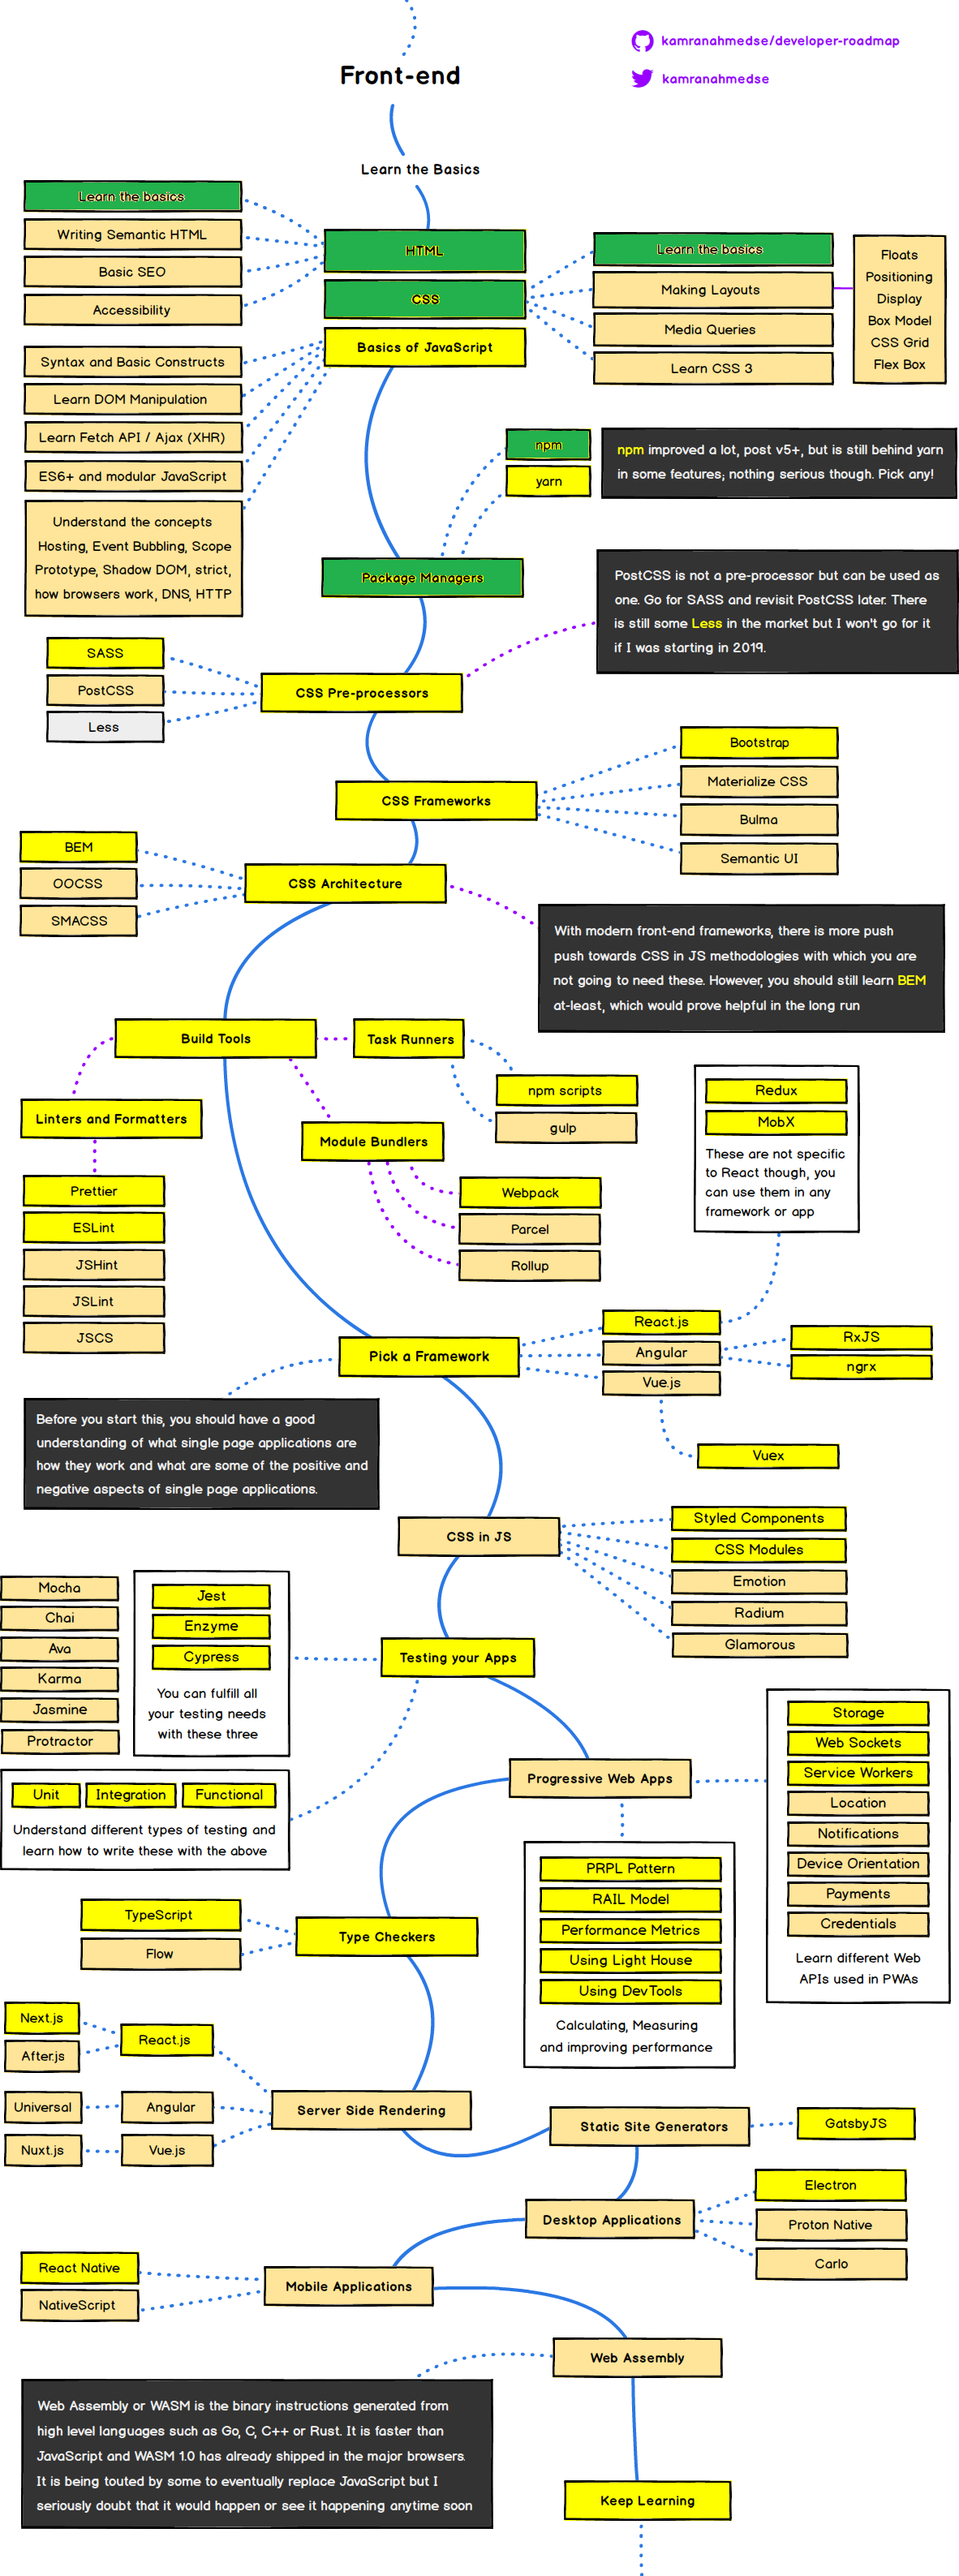
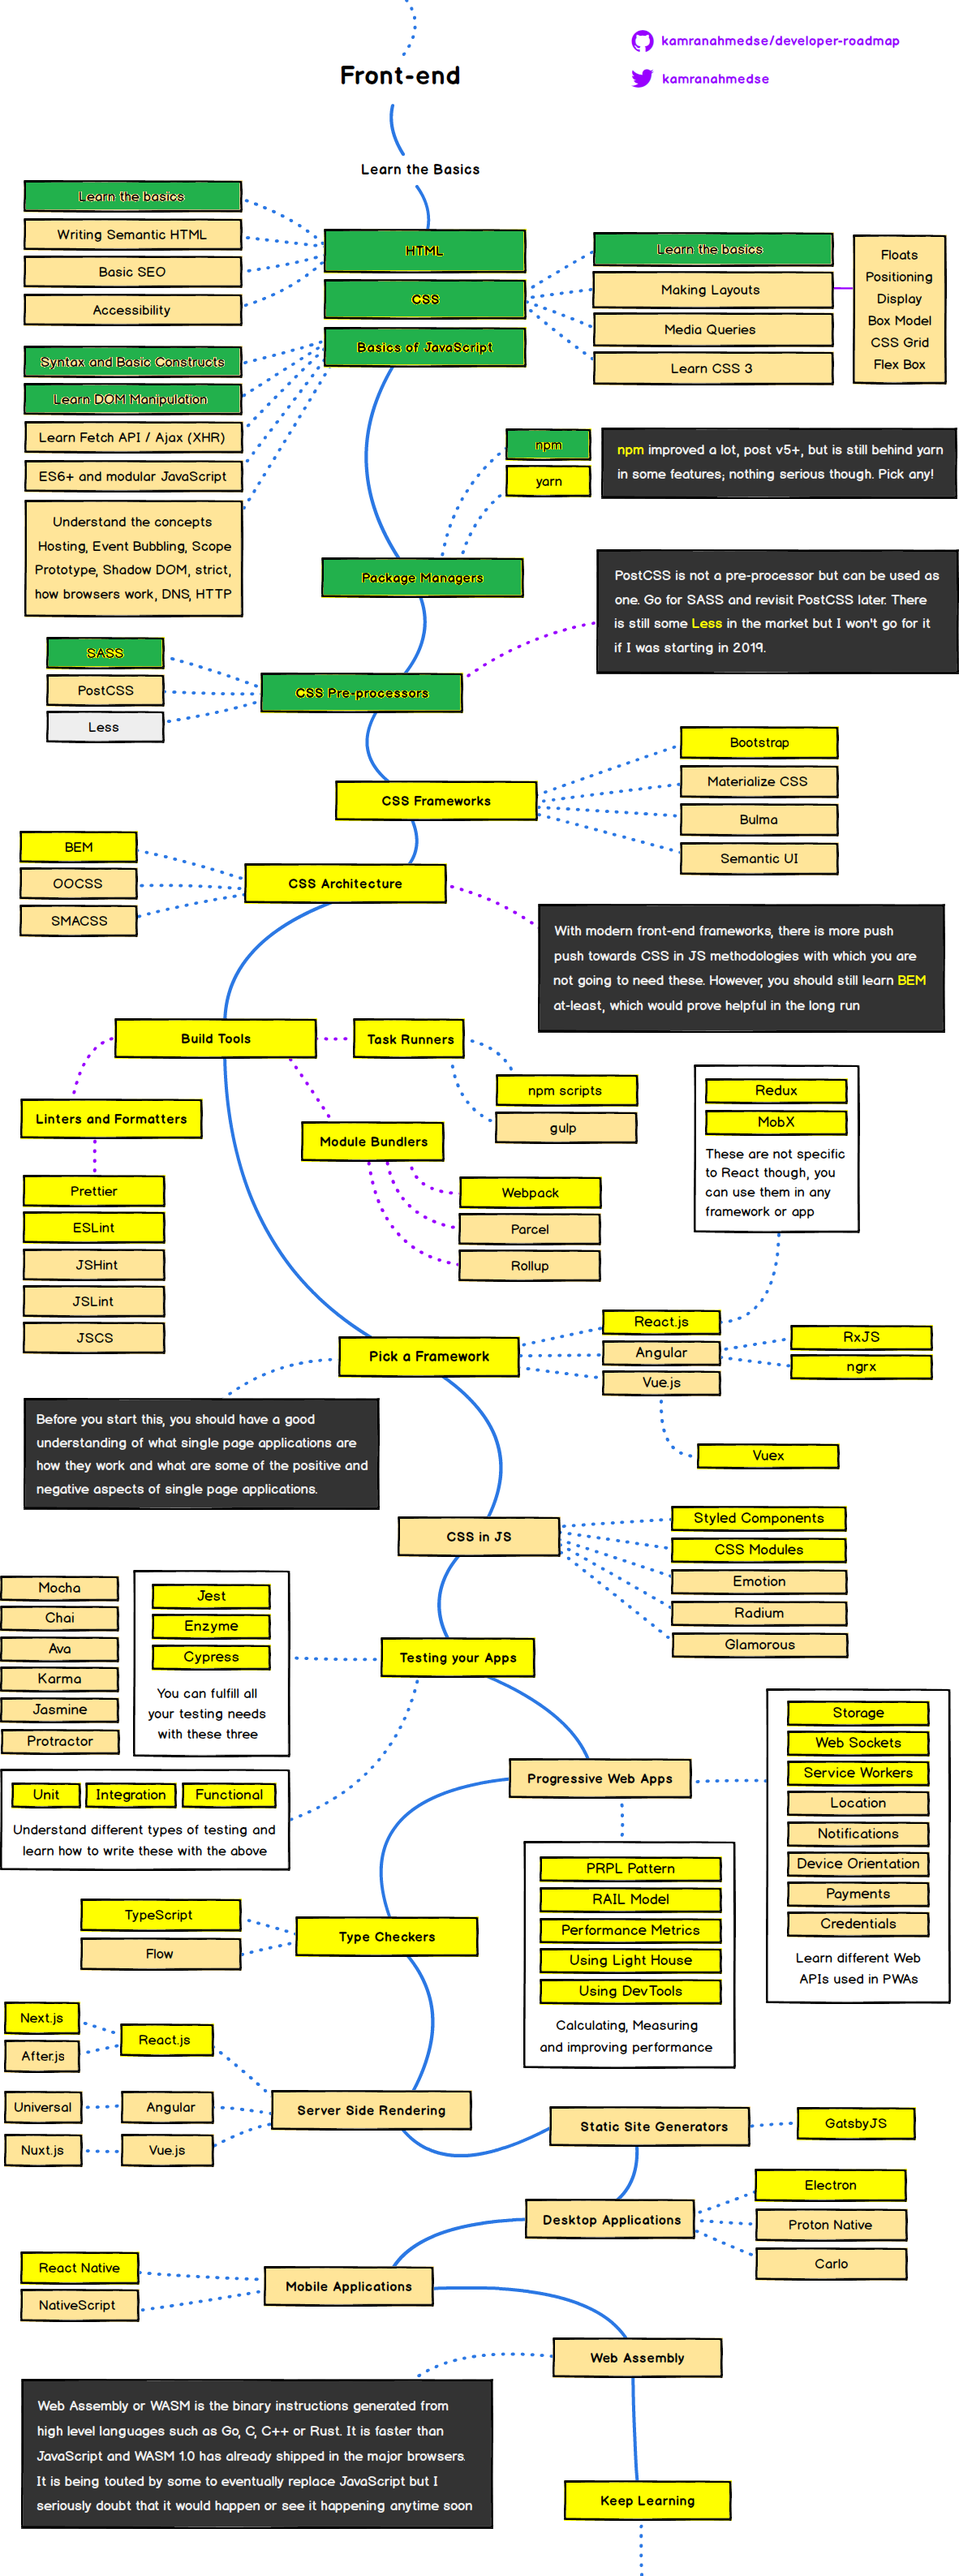
saas tutorial

diff --git a/front-end/css-preprocessor/sass/css/main.scss b/front-end/css-preprocessor/sass/css/main.scss
@@ -1,0 +1,149 @@
+$colors: (
+    primary: #005dff,
+    primary-light: lighten(#005dff, 40%),
+    primary-dark: darken(#005dff, 40%),
+    accent: #FFF6BB
+);
+// $mycolor: #005dff;
+$padding: 15px;
+$borders: 15px;
+
+@function color($color-name) {
+    @return map-get($colors, $color-name);
+}
+
+$desktop: 840px;
+
+@mixin  desktop {
+    @media(min-width: #{$desktop}){
+        @content;
+    }
+}
+
+body, html {
+    height: 100%;
+}
+
+body {
+    // background-color: map-get($map: $colors, $key: primary)
+    font-family: Cambria, Cochin, Georgia, Times, 'Times New Roman', serif;
+    margin: 0;
+    #bg {
+        clip-path: polygon(100% 0, 100% 79%, 28% 100%, 0 100%, 0 0);
+        background-color: color(primary);
+        width: 100%;
+        height: 100%;
+        position: absolute;
+        z-index: -1;
+
+        @include desktop {
+            clip-path: polygon(0 0, 75% 0, 55% 100%, 0% 100%);
+        }
+    }
+
+    header a {
+        color: #fff;
+        text-decoration: none;
+        padding: $padding;
+        display: block;
+        text-transform: uppercase;
+    }
+}
+
+main {
+
+    @include desktop {
+        display: grid;
+        grid-template-columns: 50% auto;
+        grid-template-areas: "primary card";
+    }
+
+    section#card {
+        background: #fff;
+        padding: 20px;
+        margin: 1em auto;
+        border-radius: $borders;
+        box-shadow: 0 10px 30px rgba(0,0,0,.2);
+        width: 80%;
+
+        @include desktop {
+            grid-area: card;
+            height: fit-content;
+            align-self: center;
+            margin: 1em;
+        }
+
+        ul {
+            list-style-type:  none;
+            margin:0;
+            padding:0;
+
+            li {
+                margin-bottom: 10px;
+
+
+                span {
+                    position: absolute;
+                    width: 30px;
+                    height: 30px;
+                    background-color: color(primary-light);
+                    border-radius: 50%;
+                    margin-right: 10px;
+                }
+
+                strong {
+                    display:inline-block;
+                    margin-left: max(40px);
+                    margin-top:12px;
+                }
+            }
+        }
+    }
+
+    section#primary {
+        color:#fff;
+        padding: $padding;
+        text-align: center;
+
+        @include desktop {
+            grid-area: primary;
+            text-align: left;
+            margin: 4em 0 0 4em;
+
+        }
+
+        h1 {
+            font-size: 3em;
+            margin-top: 10px;
+            text-transform: uppercase;
+
+            @include desktop {
+                width: 30%;
+                font-size: 4em;
+                line-height: .9em;
+            }
+        }
+
+        p {
+            font-size: 1.4em;
+        }
+
+        a {
+            color: color(primary-dark);
+            border-radius: $borders;
+            text-decoration: none;
+            text-transform: uppercase;
+            font-weight: bold;
+            background-color: color(accent);
+            display: block;
+            text-align: center;
+            margin: 50px auto 0 auto;
+            padding: $padding;
+
+            @include desktop {
+                display: inline-block;
+                padding: $padding $padding * 4;
+            }
+        }
+    }
+}

diff --git a/front-end/css-preprocessor/sass/css/main.css b/front-end/css-preprocessor/sass/css/main.css
@@ -1,0 +1,144 @@
+body, html {
+  height: 100%;
+}
+
+body {
+  font-family: Cambria, Cochin, Georgia, Times, 'Times New Roman', serif;
+  margin: 0;
+}
+
+body #bg {
+  -webkit-clip-path: polygon(100% 0, 100% 79%, 28% 100%, 0 100%, 0 0);
+          clip-path: polygon(100% 0, 100% 79%, 28% 100%, 0 100%, 0 0);
+  background-color: #005dff;
+  width: 100%;
+  height: 100%;
+  position: absolute;
+  z-index: -1;
+}
+
+@media (min-width: 840px) {
+  body #bg {
+    -webkit-clip-path: polygon(0 0, 75% 0, 55% 100%, 0% 100%);
+            clip-path: polygon(0 0, 75% 0, 55% 100%, 0% 100%);
+  }
+}
+
+body header a {
+  color: #fff;
+  text-decoration: none;
+  padding: 15px;
+  display: block;
+  text-transform: uppercase;
+}
+
+@media (min-width: 840px) {
+  main {
+    display: -ms-grid;
+    display: grid;
+    -ms-grid-columns: 50% auto;
+        grid-template-columns: 50% auto;
+        grid-template-areas: "primary card";
+  }
+}
+
+main section#card {
+  background: #fff;
+  padding: 20px;
+  margin: 1em auto;
+  border-radius: 15px;
+  -webkit-box-shadow: 0 10px 30px rgba(0, 0, 0, 0.2);
+          box-shadow: 0 10px 30px rgba(0, 0, 0, 0.2);
+  width: 80%;
+}
+
+@media (min-width: 840px) {
+  main section#card {
+    grid-area: card;
+    height: -webkit-fit-content;
+    height: -moz-fit-content;
+    height: fit-content;
+    -ms-flex-item-align: center;
+        -ms-grid-row-align: center;
+        align-self: center;
+    margin: 1em;
+  }
+}
+
+main section#card ul {
+  list-style-type: none;
+  margin: 0;
+  padding: 0;
+}
+
+main section#card ul li {
+  margin-bottom: 10px;
+}
+
+main section#card ul li span {
+  position: absolute;
+  width: 30px;
+  height: 30px;
+  background-color: #ccdfff;
+  border-radius: 50%;
+  margin-right: 10px;
+}
+
+main section#card ul li strong {
+  display: inline-block;
+  margin-left: 40px;
+  margin-top: 12px;
+}
+
+main section#primary {
+  color: #fff;
+  padding: 15px;
+  text-align: center;
+}
+
+@media (min-width: 840px) {
+  main section#primary {
+    grid-area: primary;
+    text-align: left;
+    margin: 4em 0 0 4em;
+  }
+}
+
+main section#primary h1 {
+  font-size: 3em;
+  margin-top: 10px;
+  text-transform: uppercase;
+}
+
+@media (min-width: 840px) {
+  main section#primary h1 {
+    width: 30%;
+    font-size: 4em;
+    line-height: .9em;
+  }
+}
+
+main section#primary p {
+  font-size: 1.4em;
+}
+
+main section#primary a {
+  color: #001333;
+  border-radius: 15px;
+  text-decoration: none;
+  text-transform: uppercase;
+  font-weight: bold;
+  background-color: #FFF6BB;
+  display: block;
+  text-align: center;
+  margin: 50px auto 0 auto;
+  padding: 15px;
+}
+
+@media (min-width: 840px) {
+  main section#primary a {
+    display: inline-block;
+    padding: 15px 60px;
+  }
+}
+/*# sourceMappingURL=main.css.map */

diff --git a/front-end/css-preprocessor/sass/index.html b/front-end/css-preprocessor/sass/index.html
@@ -1,0 +1,48 @@
+<!DOCTYPE html>
+<html lang="">
+<head>
+  <meta charset="utf-8">
+  <meta name="viewport" content="width=device-width, initial-scale=1.0">
+  <title>Saas</title>
+  <link rel="stylesheet" href="css/main.css">
+</head>
+
+<body>
+  <div id="bg"></div>
+  <header>
+    <a href="#">ZoomZoom</a>
+  </header>
+
+  <main>
+    <section id="card">
+      <ul>
+        <li>
+          <span></span>
+          <strong>
+            How may I help you, bro?
+          </strong>
+        </li>
+        <li>
+          <span></span>
+          <strong>
+            I don't know if I can be helped
+          </strong>
+        </li>
+        <li>
+          <span></span>
+          <strong>
+            That's deep. Let me help.
+          </strong>
+        </li>
+      </ul>
+    </section>
+    <section id="primary">
+      <h1>Your Personal Assistant</h1>
+      <p>
+        Get help with your daily like stuff.
+      </p>
+      <a href="#">Get help already.</a>
+    </section>
+  </main>
+</body>
+</html>
